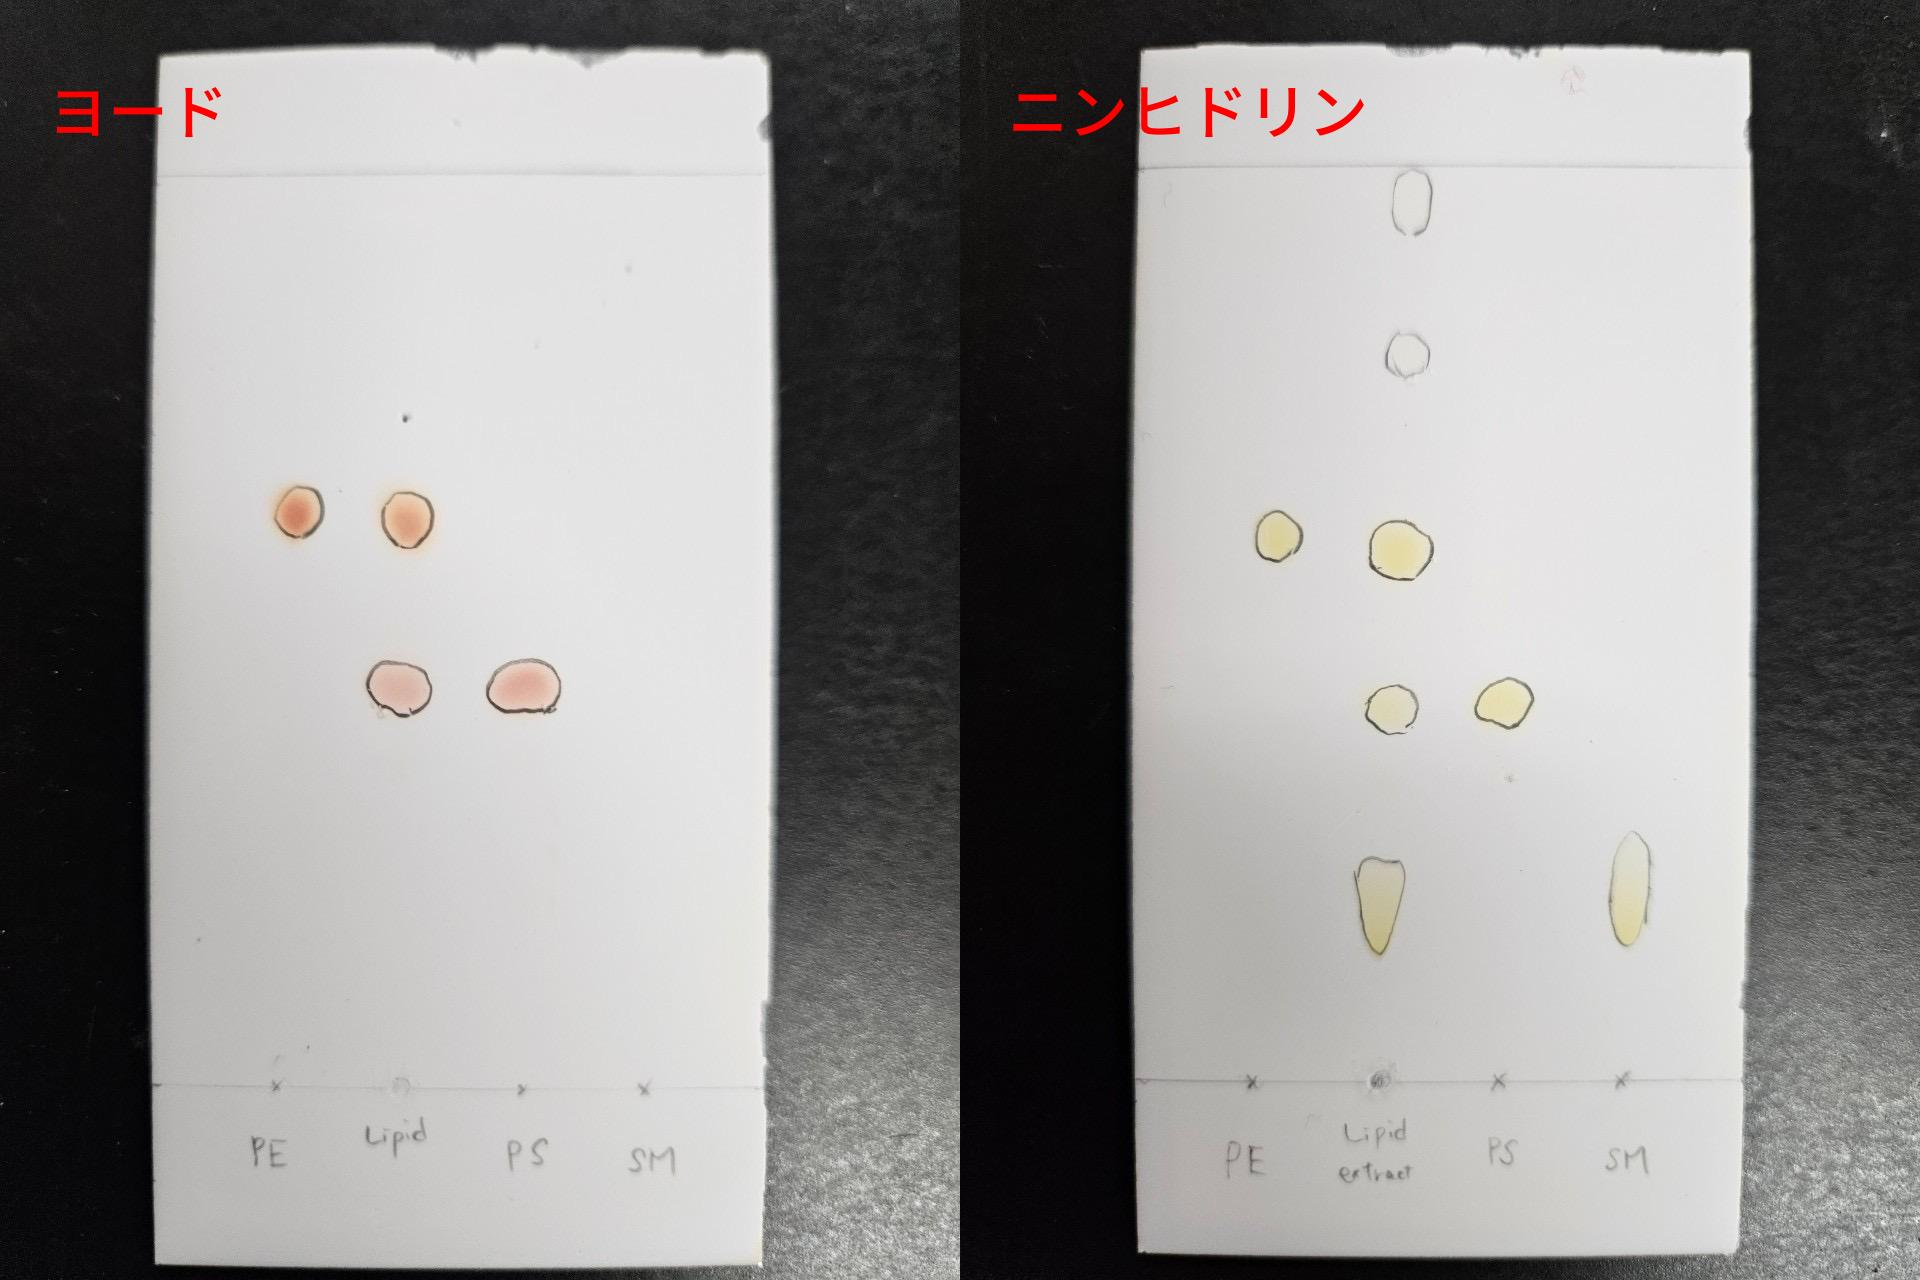
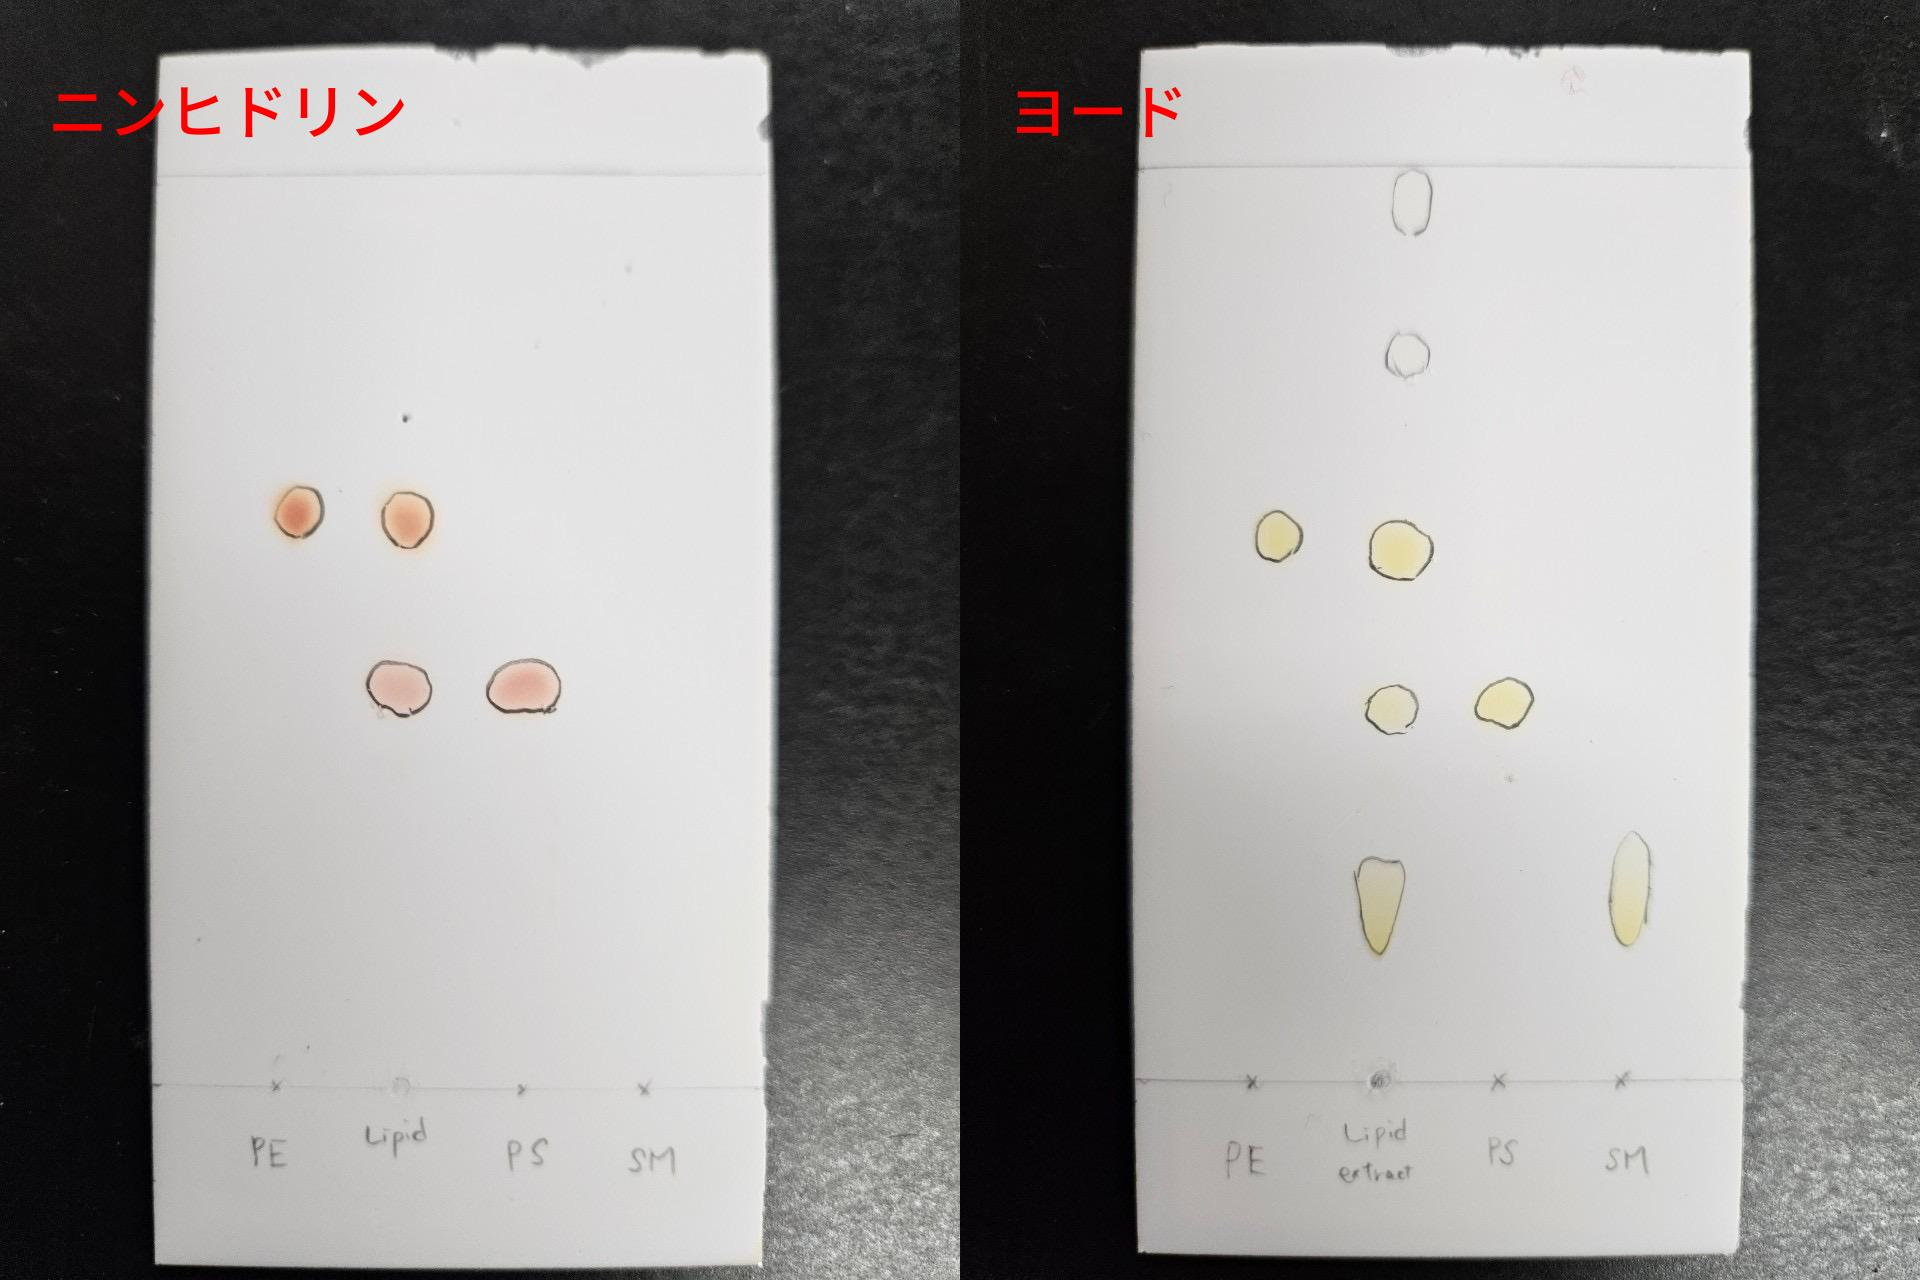
Changes

Changed region(s): [[0.5312, 0.0625, 0.7188, 0.125], [0.0312, 0.0625, 0.2188, 0.125]]

diff --git a/main.py b/main.py
@@ -3,8 +3,8 @@ from packages.day5 import day5
 from packages.chromatgraphy import get_concat_pictures
 
 if __name__ == "__main__":
-    # outputpath = "/Users/kotaro/Desktop/"
-    outputpath = "./outputs/"
+    outputpath = "/Users/kotaro/Desktop/"
+    # outputpath = "./outputs/"
     day3(outputpath=outputpath)
     day5(outputpath=outputpath)
     get_concat_pictures(outputpath=outputpath)

diff --git a/packages/chromatgraphy.py b/packages/chromatgraphy.py
@@ -1,7 +1,7 @@
 from packages.image import concatenate_draw,get_image
 import glob
 
-texts = {"day2": ["ヨード","ニンヒドリン"],
+texts = {"day2": ["ニンヒドリン","ヨード"],
          "day3": ["ヨード",],
          "day4": ["ニンヒドリン"],
          }
